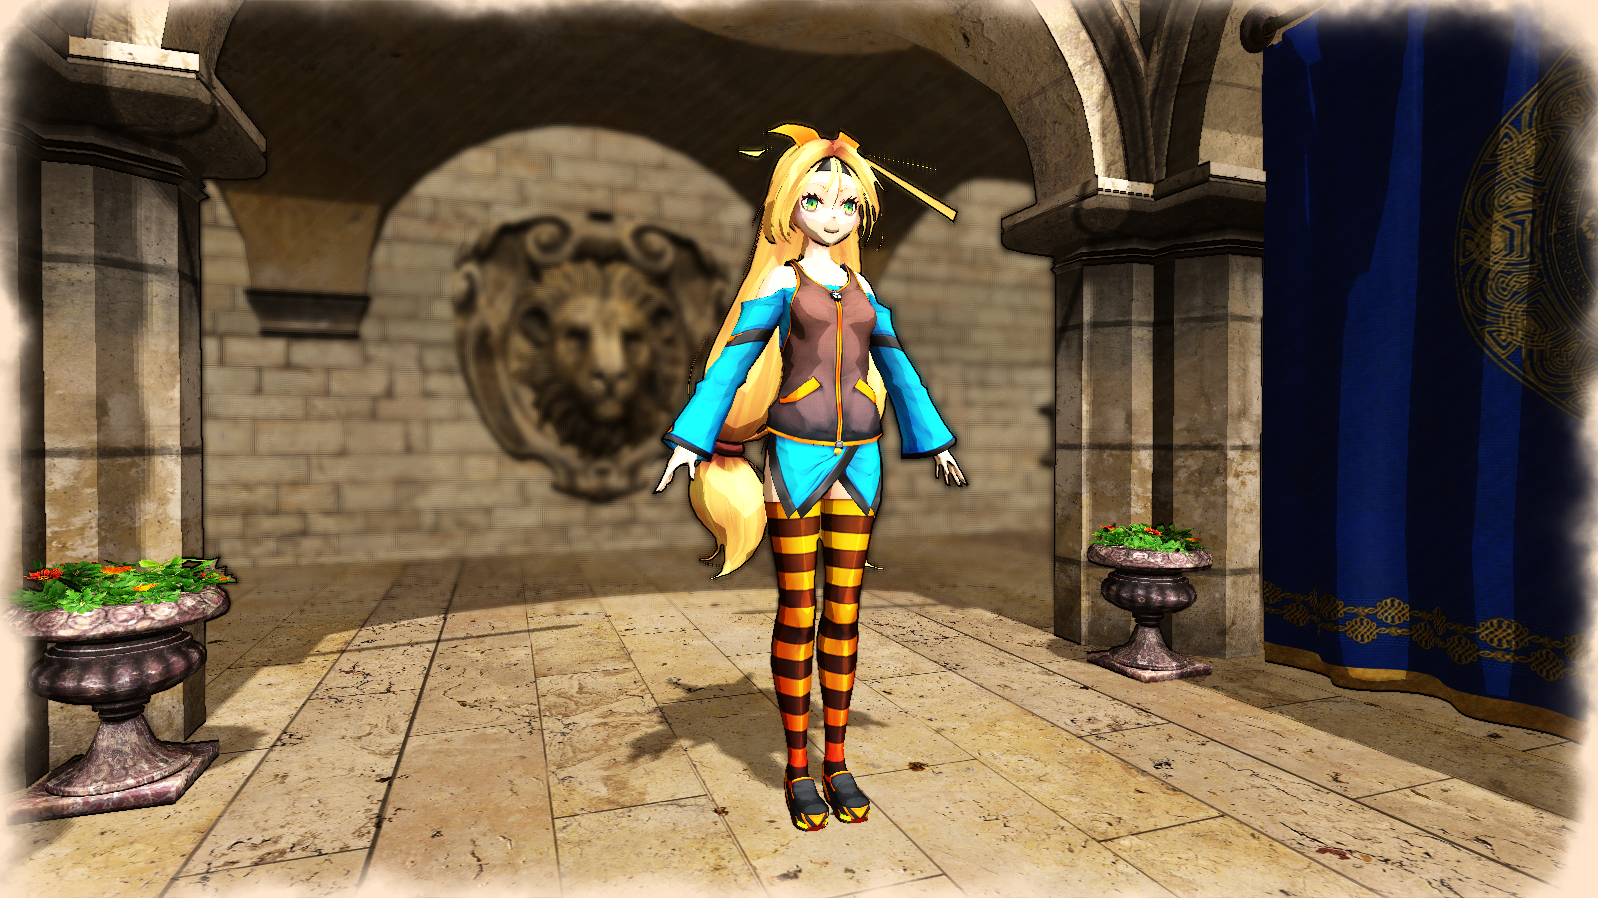
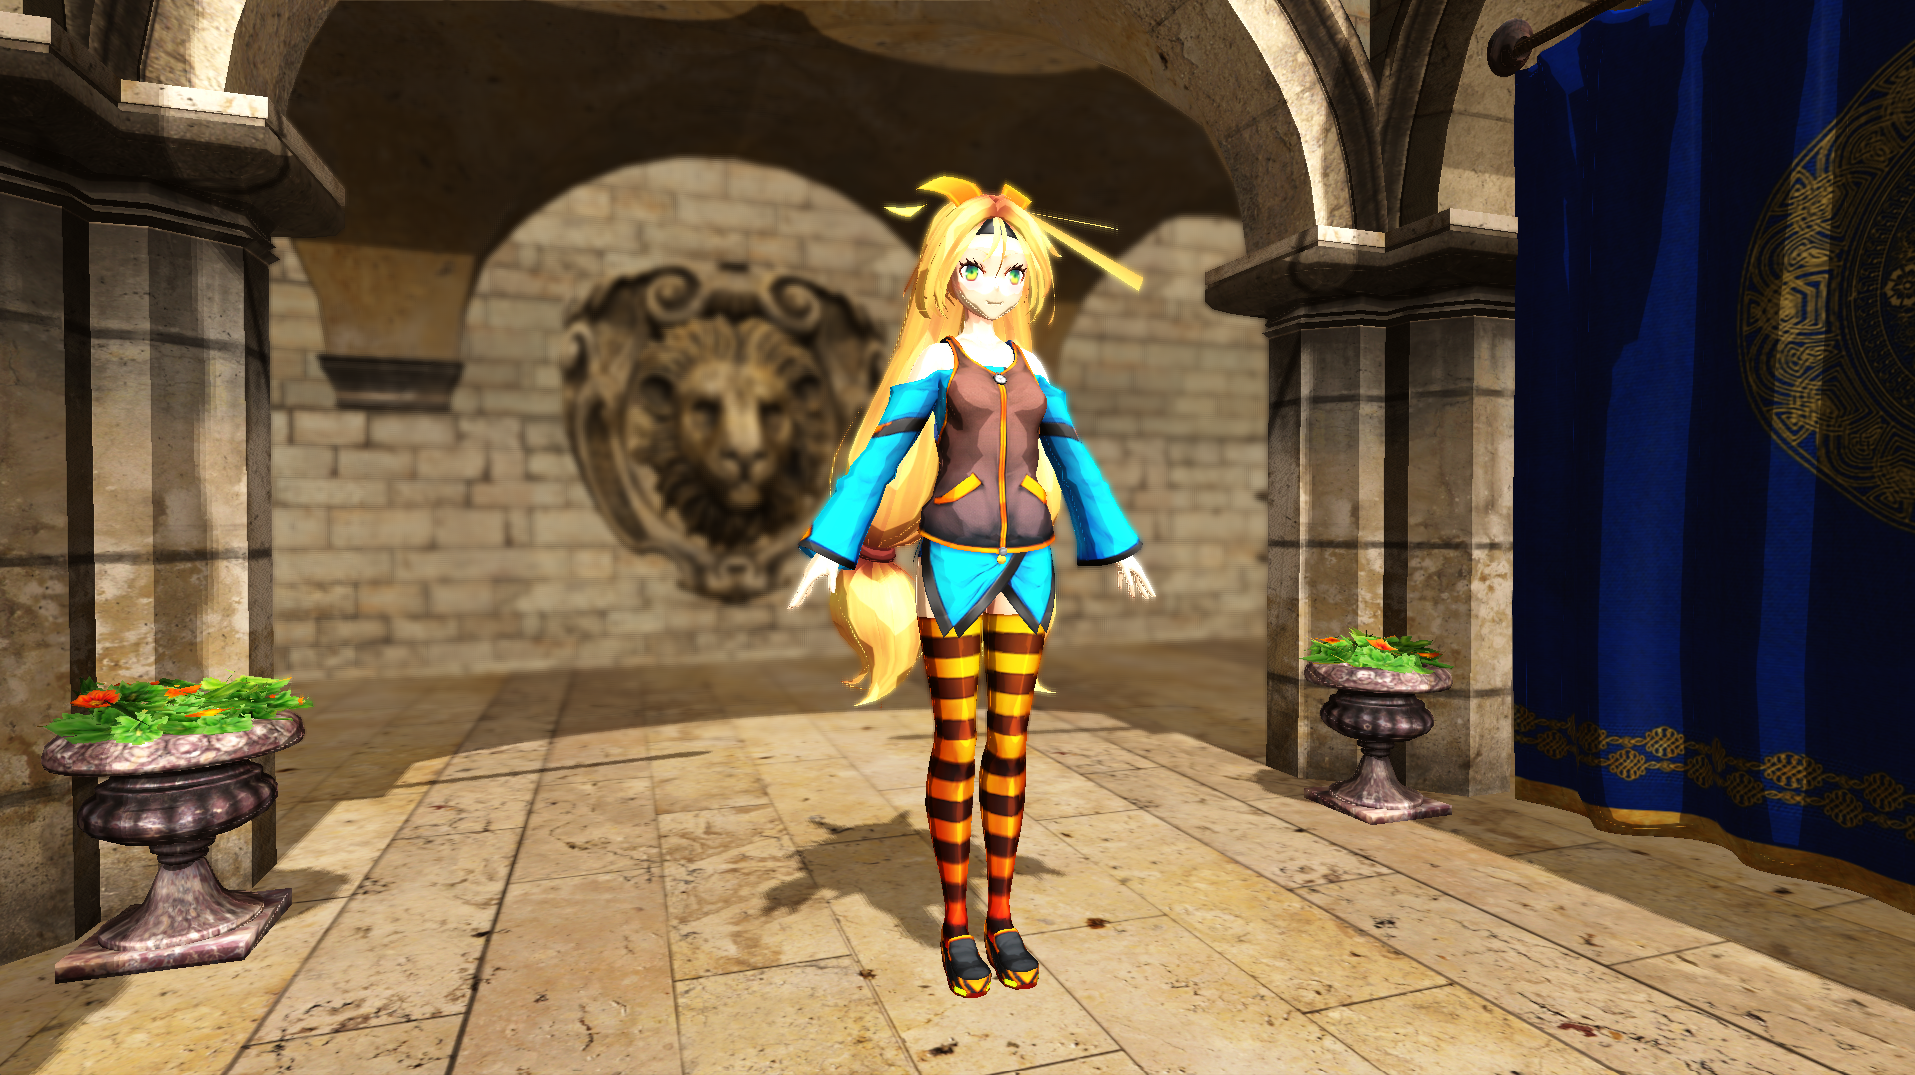
Optimize framebuffer format & Update screenshots

diff --git a/CactusEngine/Graphics/RenderGraph/Nodes/OpaqueContentRenderNode.cpp b/CactusEngine/Graphics/RenderGraph/Nodes/OpaqueContentRenderNode.cpp
@@ -37,8 +37,8 @@ namespace Engine
 		texCreateInfo.pSampler = m_pDevice->GetDefaultTextureSampler();
 		texCreateInfo.textureWidth = screenWidth;
 		texCreateInfo.textureHeight = screenHeight;
-		texCreateInfo.dataType = EDataType::Float32;
-		texCreateInfo.format = ETextureFormat::RGBA32F;
+		texCreateInfo.dataType = EDataType::UByte;
+		texCreateInfo.format = ETextureFormat::RGBA8_SRGB;
 		texCreateInfo.textureType = ETextureType::ColorAttachment;
 		texCreateInfo.initialLayout = EImageLayout::ShaderReadOnly;
 
@@ -58,14 +58,14 @@ namespace Engine
 			m_pDevice->CreateTexture2D(texCreateInfo, m_frameResources[i].m_pDepthOutput);
 
 			m_graphResources[i]->Add(OUTPUT_COLOR_TEXTURE, m_frameResources[i].m_pColorOutput);
-			m_graphResources[i]->Add(OUTPUT_DEPTH_TEXTURE, m_frameResources[i].m_pDepthOutput);
 			m_graphResources[i]->Add(OUTPUT_LINE_SPACE_TEXTURE, m_frameResources[i].m_pLineSpaceOutput);
+			m_graphResources[i]->Add(OUTPUT_DEPTH_TEXTURE, m_frameResources[i].m_pDepthOutput);
 		}
 
 		// Render pass object
 
 		RenderPassAttachmentDescription colorDesc{};
-		colorDesc.format = ETextureFormat::RGBA32F;
+		colorDesc.format = ETextureFormat::RGBA8_SRGB;
 		colorDesc.sampleCount = 1;
 		colorDesc.loadOp = EAttachmentOperation::Clear;
 		colorDesc.storeOp = EAttachmentOperation::Store;
@@ -78,7 +78,7 @@ namespace Engine
 		colorDesc.index = 0;
 
 		RenderPassAttachmentDescription shadowDesc{};
-		shadowDesc.format = ETextureFormat::RGBA32F;
+		shadowDesc.format = ETextureFormat::RGBA8_SRGB;
 		shadowDesc.sampleCount = 1;
 		shadowDesc.loadOp = EAttachmentOperation::Clear;
 		shadowDesc.storeOp = EAttachmentOperation::Store;

diff --git a/CactusEngine/Graphics/RenderGraph/Nodes/TransparentContentRenderNode.cpp b/CactusEngine/Graphics/RenderGraph/Nodes/TransparentContentRenderNode.cpp
@@ -37,8 +37,8 @@ namespace Engine
 		texCreateInfo.pSampler = m_pDevice->GetDefaultTextureSampler();
 		texCreateInfo.textureWidth = screenWidth;
 		texCreateInfo.textureHeight = screenHeight;
-		texCreateInfo.dataType = EDataType::Float32;
-		texCreateInfo.format = ETextureFormat::RGBA32F;
+		texCreateInfo.dataType = EDataType::UByte;
+		texCreateInfo.format = ETextureFormat::RGBA8_SRGB;
 		texCreateInfo.textureType = ETextureType::ColorAttachment;
 		texCreateInfo.initialLayout = EImageLayout::ShaderReadOnly;
 
@@ -60,7 +60,7 @@ namespace Engine
 		// Render pass object
 
 		RenderPassAttachmentDescription colorDesc{};
-		colorDesc.format = ETextureFormat::RGBA32F;
+		colorDesc.format = ETextureFormat::RGBA8_SRGB;
 		colorDesc.sampleCount = 1;
 		colorDesc.loadOp = EAttachmentOperation::Clear;
 		colorDesc.storeOp = EAttachmentOperation::Store;

diff --git a/CactusEngine/Graphics/RenderGraph/Nodes/DeferredLightingRenderNode.cpp b/CactusEngine/Graphics/RenderGraph/Nodes/DeferredLightingRenderNode.cpp
@@ -39,8 +39,8 @@ namespace Engine
 		texCreateInfo.pSampler = m_pDevice->GetDefaultTextureSampler();
 		texCreateInfo.textureWidth = screenWidth;
 		texCreateInfo.textureHeight = screenHeight;
-		texCreateInfo.dataType = EDataType::Float32;
-		texCreateInfo.format = ETextureFormat::RGBA32F;
+		texCreateInfo.dataType = EDataType::UByte;
+		texCreateInfo.format = ETextureFormat::RGBA8_SRGB;
 		texCreateInfo.textureType = ETextureType::ColorAttachment;
 		texCreateInfo.initialLayout = EImageLayout::ShaderReadOnly;
 
@@ -53,7 +53,7 @@ namespace Engine
 		// Render pass object
 
 		RenderPassAttachmentDescription colorDesc{};
-		colorDesc.format = ETextureFormat::RGBA32F;
+		colorDesc.format = ETextureFormat::RGBA8_SRGB;
 		colorDesc.sampleCount = 1;
 		colorDesc.loadOp = EAttachmentOperation::None;
 		colorDesc.storeOp = EAttachmentOperation::Store;

diff --git a/CactusEngine/Graphics/RenderGraph/Nodes/TransparencyBlendRenderNode.cpp b/CactusEngine/Graphics/RenderGraph/Nodes/TransparencyBlendRenderNode.cpp
@@ -39,8 +39,8 @@ namespace Engine
 		texCreateInfo.pSampler = m_pDevice->GetDefaultTextureSampler();
 		texCreateInfo.textureWidth = screenWidth;
 		texCreateInfo.textureHeight = screenHeight;
-		texCreateInfo.dataType = EDataType::Float32;
-		texCreateInfo.format = ETextureFormat::RGBA32F;
+		texCreateInfo.dataType = EDataType::UByte;
+		texCreateInfo.format = ETextureFormat::RGBA8_SRGB;
 		texCreateInfo.textureType = ETextureType::ColorAttachment;
 		texCreateInfo.initialLayout = EImageLayout::ShaderReadOnly;
 
@@ -53,7 +53,7 @@ namespace Engine
 		// Render pass object
 
 		RenderPassAttachmentDescription colorDesc{};
-		colorDesc.format = ETextureFormat::RGBA32F;
+		colorDesc.format = ETextureFormat::RGBA8_SRGB;
 		colorDesc.sampleCount = 1;
 		colorDesc.loadOp = EAttachmentOperation::None;
 		colorDesc.storeOp = EAttachmentOperation::Store;

diff --git a/CactusEngine/Graphics/RenderGraph/Nodes/DepthOfFieldRenderNode.cpp b/CactusEngine/Graphics/RenderGraph/Nodes/DepthOfFieldRenderNode.cpp
@@ -37,8 +37,8 @@ namespace Engine
 		texCreateInfo.pSampler = m_pDevice->GetDefaultTextureSampler();
 		texCreateInfo.textureWidth = screenWidth;
 		texCreateInfo.textureHeight = screenHeight;
-		texCreateInfo.dataType = EDataType::Float32;
-		texCreateInfo.format = ETextureFormat::RGBA32F;
+		texCreateInfo.dataType = EDataType::UByte;
+		texCreateInfo.format = ETextureFormat::RGBA8_SRGB;
 		texCreateInfo.textureType = ETextureType::ColorAttachment;
 		texCreateInfo.initialLayout = EImageLayout::ShaderReadOnly;
 
@@ -52,7 +52,7 @@ namespace Engine
 		// Horizontal pass
 
 		RenderPassAttachmentDescription colorDesc{};
-		colorDesc.format = ETextureFormat::RGBA32F;
+		colorDesc.format = ETextureFormat::RGBA8_SRGB;
 		colorDesc.sampleCount = 1;
 		colorDesc.loadOp = EAttachmentOperation::None;
 		colorDesc.storeOp = EAttachmentOperation::Store;

diff --git a/CactusEngine/Common/Main.cpp b/CactusEngine/Common/Main.cpp
@@ -91,8 +91,10 @@ void ConfigSetup()
 	gpGlobal->CreateConfiguration<AppConfiguration>(EConfigurationType::App);
 	gpGlobal->CreateConfiguration<GraphicsConfiguration>(EConfigurationType::Graphics);
 
-	// TODO: read setitings from file
+	// TODO: read settings from file
 	gpGlobal->GetConfiguration<AppConfiguration>(EConfigurationType::App)->SetAppName("Cactus Engine");
+	gpGlobal->GetConfiguration<AppConfiguration>(EConfigurationType::App)->SetAppVersion("0.0.1");
+
 	gpGlobal->GetConfiguration<GraphicsConfiguration>(EConfigurationType::Graphics)->SetGraphicsAPIType(EGraphicsAPIType::Vulkan);
 	gpGlobal->GetConfiguration<GraphicsConfiguration>(EConfigurationType::Graphics)->SetPreferredGPUType(EGPUType::Discrete);
 	gpGlobal->GetConfiguration<GraphicsConfiguration>(EConfigurationType::Graphics)->SetWindowSize(1920, 1080);

diff --git a/CactusEngine/Graphics/Device/OpenGL/GHIUtilities_GL.h b/CactusEngine/Graphics/Device/OpenGL/GHIUtilities_GL.h
@@ -92,6 +92,16 @@ namespace Engine
 			return GL_FLOAT;
 		case EDataType::UByte:
 			return GL_UNSIGNED_BYTE;
+		case EDataType::SByte:
+			return GL_BYTE;
+		case EDataType::UShort:
+			return GL_UNSIGNED_SHORT;
+		case EDataType::Short:
+			return GL_SHORT;
+		case EDataType::UInt32:
+			return GL_UNSIGNED_INT;
+		case EDataType::Int32:
+			return GL_INT;
 		default:
 			LOG_ERROR("OpenGL: Unhandled data type.");
 			break;
@@ -104,8 +114,12 @@ namespace Engine
 		switch (type)
 		{
 		case EDataType::Float32:
+		case EDataType::UInt32:
+		case EDataType::Int32:
 			return 16;
 		case EDataType::UByte:
+			return 4;
+		case EDataType::SByte:
 			return 4;
 		default:
 			LOG_ERROR("OpenGL: Unhandled data type.");

diff --git a/CactusEngine/Graphics/Device/Vulkan/CommandManager_VK.cpp b/CactusEngine/Graphics/Device/Vulkan/CommandManager_VK.cpp
@@ -680,6 +680,11 @@ namespace Engine
 			{
 				vkQueueSubmit(m_workingQueue.queue, 1, &pCommandSubmitInfo->submitInfo, VK_NULL_HANDLE);
 
+				if (pCommandSubmitInfo->pNotifySemaphore)
+				{
+					pCommandSubmitInfo->pNotifySemaphore->Signal();
+				}
+
 				{
 					std::lock_guard<std::mutex> guard(m_inExecutionQueueRWMutex);
 
@@ -689,11 +694,6 @@ namespace Engine
 						m_inExecutionCommandBuffers.Push(ptrCopy);
 						pCommandSubmitInfo->queuedCmdBuffers.pop();
 					}
-				}
-
-				if (pCommandSubmitInfo->pNotifySemaphore)
-				{
-					pCommandSubmitInfo->pNotifySemaphore->Signal();
 				}
 
 				CE_DELETE(pCommandSubmitInfo);

diff --git a/CactusEngine/Graphics/Device/OpenGL/GraphicsHardwareInterface_GL.cpp b/CactusEngine/Graphics/Device/OpenGL/GraphicsHardwareInterface_GL.cpp
@@ -12,7 +12,8 @@ namespace Engine
 		: m_attributeless_vao(-1),
 		m_primitiveTopologyMode(GL_TRIANGLES)
 	{
-
+		// Temporary solution for enabling sRGB support
+		glEnable(GL_FRAMEBUFFER_SRGB);
 	}
 
 	GraphicsHardwareInterface_GL::~GraphicsHardwareInterface_GL()

diff --git a/README.md b/README.md
@@ -51,26 +51,24 @@ Deprecated feature(s):
 
 #### Dependencies
 
-- [GLFW (Window/Input Utility)](https://github.com/glfw/glfw)
-- [GLM (Graphics Mathematics)](https://github.com/g-truc/glm)
-- [Dear ImGui (GUI Utility)](https://github.com/ocornut/imgui)
-- [Assimp (Asset Import)](https://github.com/assimp/assimp)
-- [stb (Image Utility)](https://github.com/nothings/stb)
+- [GLFW (window/input utility)](https://github.com/glfw/glfw)
+- [GLM (graphics mathematics)](https://github.com/g-truc/glm)
+- [Dear ImGui (GUI utility)](https://github.com/ocornut/imgui)
+- [Assimp (asset import)](https://github.com/assimp/assimp)
+- [stb (image utility)](https://github.com/nothings/stb)
 - [JsonCpp (JSON parser)](https://github.com/open-source-parsers/jsoncpp)
 - [Vulkan SDK 1.2+](https://www.lunarg.com/vulkan-sdk/)
-- [Volk (Vulkan Loader)](https://github.com/zeux/volk)
+- [Volk (Vulkan loader)](https://github.com/zeux/volk)
 - [Vulkan Memory Allocator](https://github.com/GPUOpen-LibrariesAndSDKs/VulkanMemoryAllocator)
-- [SPIRV-Cross (SPIR-V Utility)](https://github.com/KhronosGroup/SPIRV-Cross)
+- [SPIRV-Cross (SPIR-V utility)](https://github.com/KhronosGroup/SPIRV-Cross)
 - OpenGL 4.6
-- [GLAD (OpenGL Loader)](https://github.com/Dav1dde/glad/tree/master)
+- [GLAD (OpenGL loader)](https://github.com/Dav1dde/glad/tree/master)
 - C++ 17
 - Visual Studio 2022
 
 <br/>
 
 #### Samples
-
-(Sample screenshots taken from `legacy-2020` branch)
 
 <br/>
 
